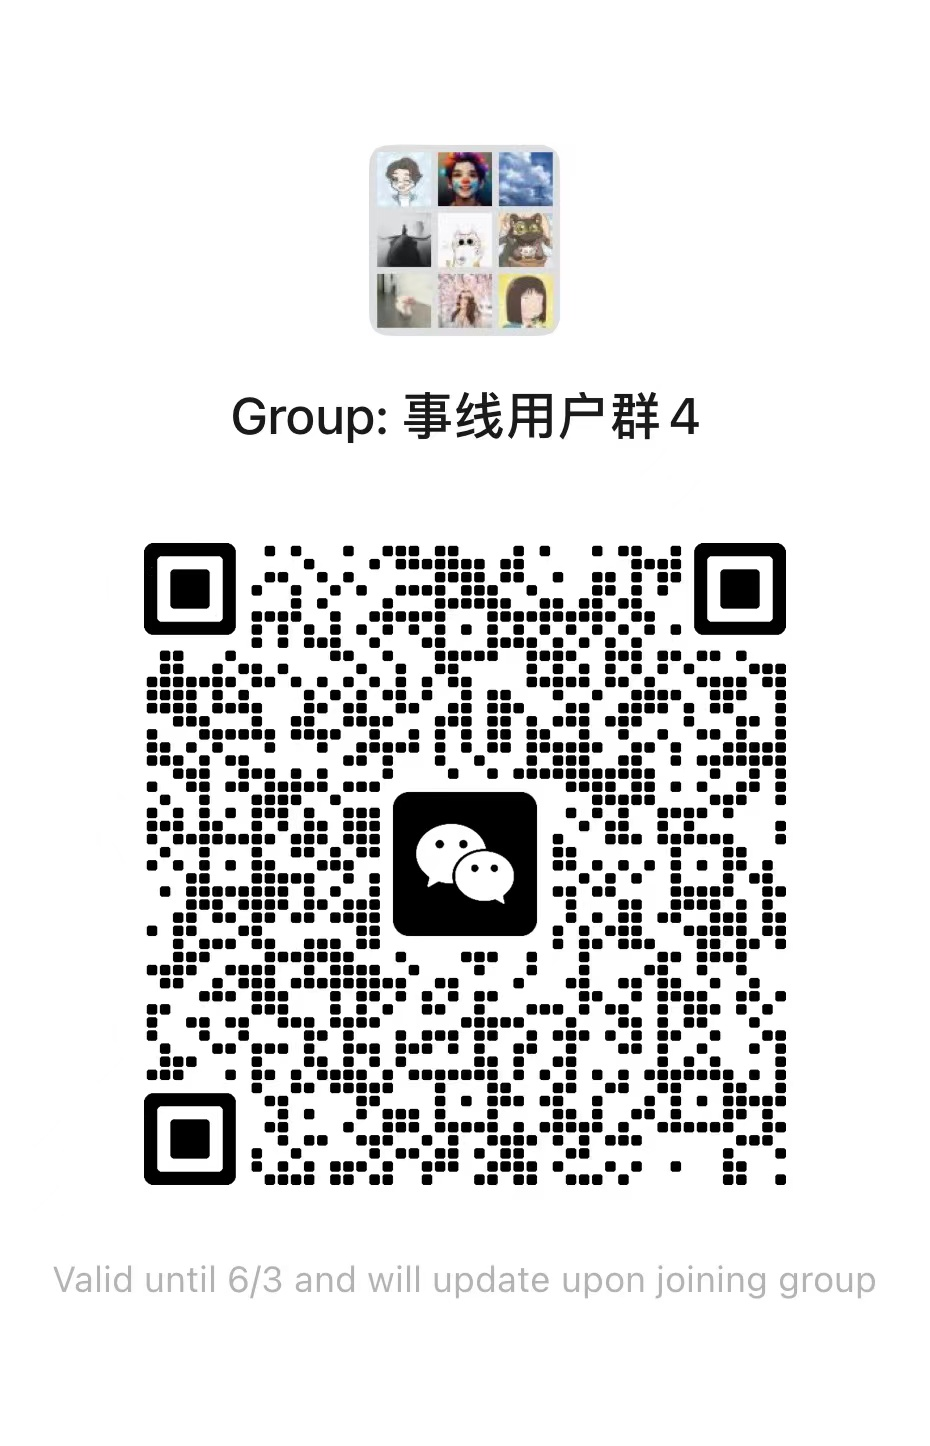
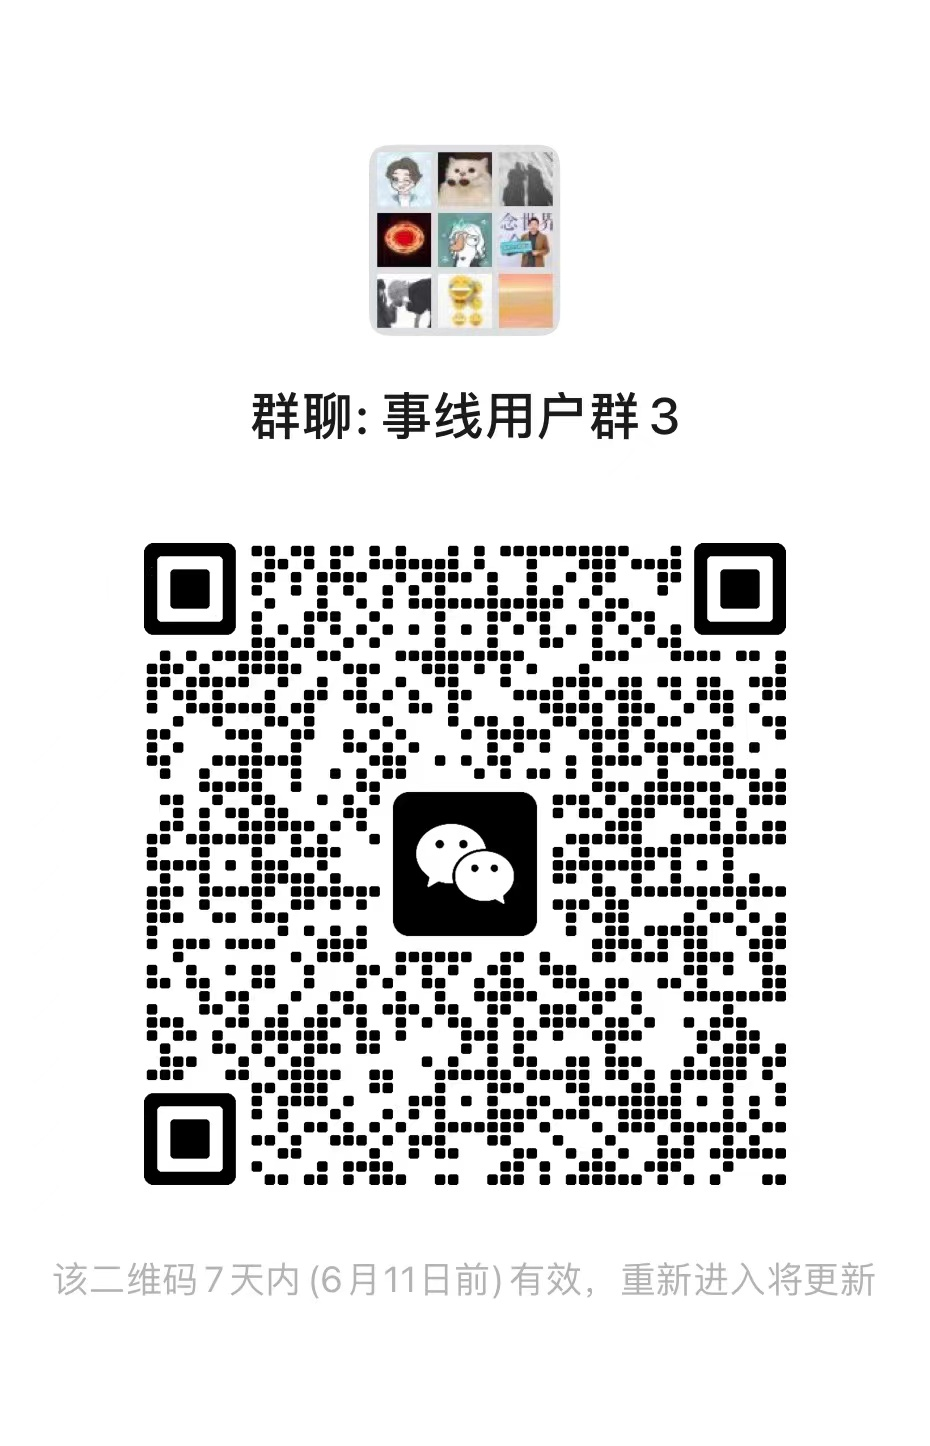
a

Changed region(s): [[0.1559, 0.3734, 0.8419, 0.8402], [0.2495, 0.0934, 0.7484, 0.3112], [0.0624, 0.8714, 0.9355, 0.9025]]

diff --git a/docs/01.pages/03.共建/002.用户群.md b/docs/01.pages/03.共建/002.用户群.md
@@ -9,7 +9,7 @@ permalink: /pages/16d8ae/
 
 <img src="/img/vx.jpg" class="no-zoom" style="width:15rem;margin: 10px;border-radius: 15px;margin: 2rem 0;box-shadow: 0 0px 20px rgb(0 0 0 / 20%);">
 
-#### （6月3日失效）
+#### （6月11日失效）
 
 
 :::
